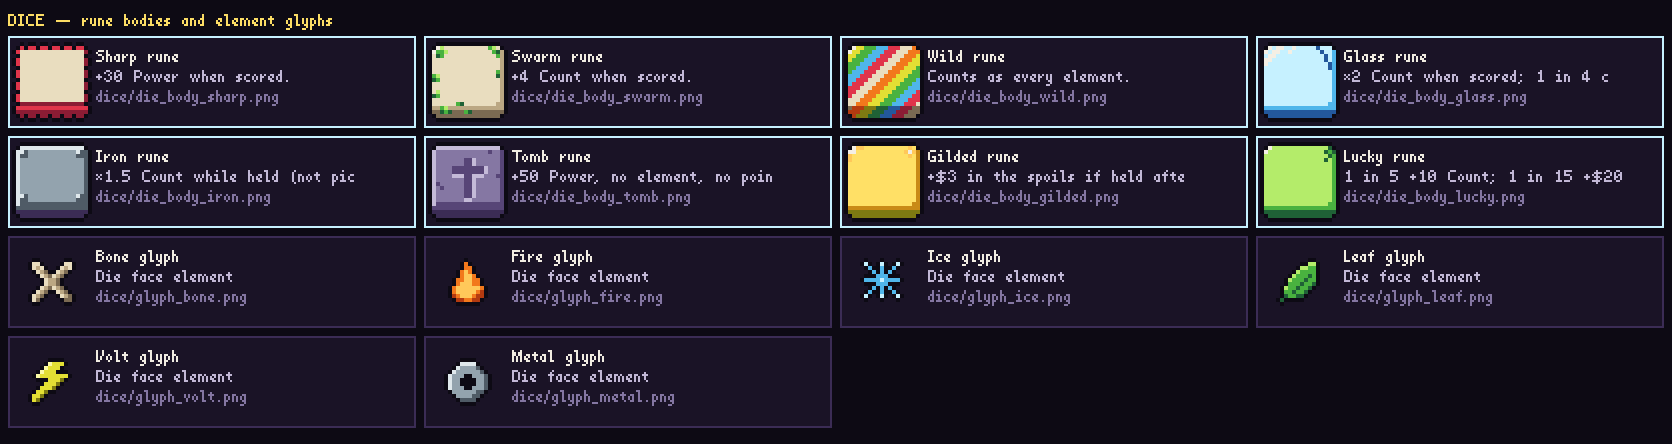
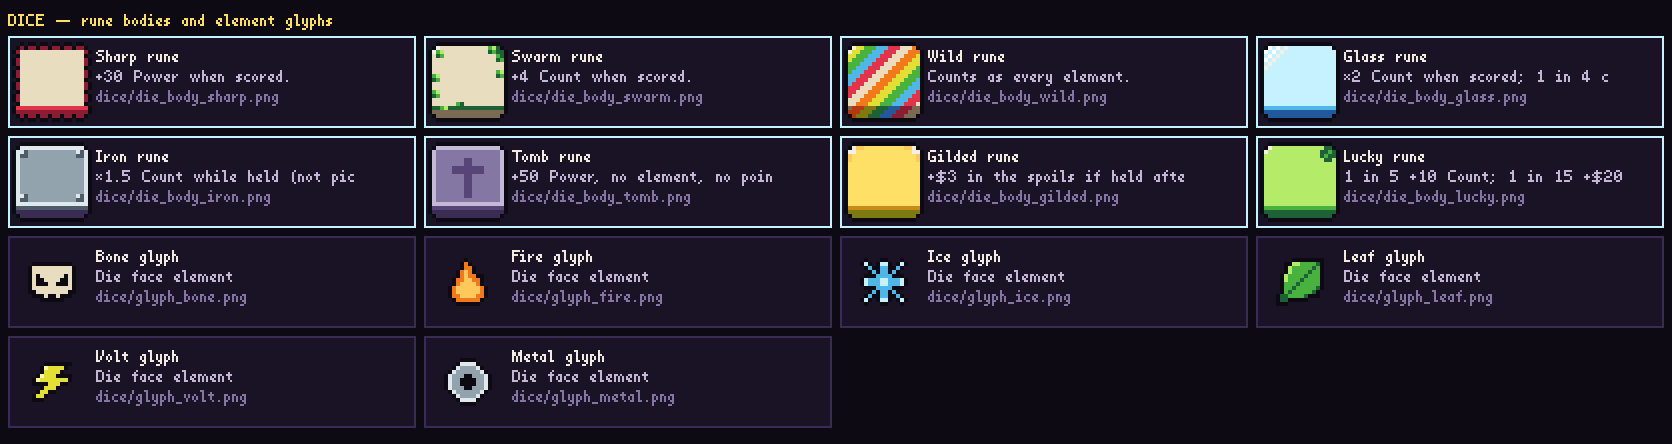
Update dice tiles, small glyphs and how-to pages to the new dice art

diff --git a/tools/art/dice_runes.py b/tools/art/dice_runes.py
@@ -14,6 +14,10 @@ left three columns, the right column above the badge and the side band left of i
 TOMB shows no glyph in game, so its carved cross sits in the middle. face_tile_<rune> applies
 the same materials to the 16x16 dice-inspector tile (glyph8 at (4, 4)).
 
+The designer repainted the bodies (2026-10-29): the face is flat with a top-left light and no right
+shade column; die_body_*.png on disk is the truth and BODY_* below are the older recipes. The
+TILE_* grids follow the repainted bodies (glass shine in N7: the body's #ffffff is off-palette).
+
 num_<n>: the face's points, a 7x9 N0 rounded badge with a 3x5 N7 digit (3 colours max).
 """
 
@@ -57,20 +61,20 @@ BODY_SHARP = [
 ]
 TILE_SHARP = [
     ".##.##.##.##.##.",
-    "#RR#RR#RR#RR#RR#",
-    "#Rccccccccccccr#",
+    "#rr#rr#rr#rr#rr#",
+    "#rccccccccccccr#",
     ".#cccccccccccc#.",
-    "#Rccccccccccccr#",
-    "#Rccccccccccccr#",
+    "#rccccccccccccr#",
+    "#rccccccccccccr#",
     ".#cccccccccccc#.",
-    "#Rccccccccccccr#",
-    "#Rccccccccccccr#",
+    "#rccccccccccccr#",
+    "#rccccccccccccr#",
     ".#cccccccccccc#.",
-    "#Rccccccccccccr#",
-    "#Rccccccccccccr#",
+    "#rccccccccccccr#",
+    "#rccccccccccccr#",
     ".#cccccccccccc#.",
-    "#Rrrrrrrrrrrrrr#",
-    "#RR#RR#RR#RR#RR#",
+    "#RRRRRRRRRRRRRR#",
+    "#rr#rr#rr#rr#rr#",
     ".##.##.##.##.##.",
 ]
 BODY_SWARM = [
@@ -97,20 +101,20 @@ BODY_SWARM = [
 ]
 TILE_SWARM = [
     ".##############.",
-    "#7ccccccccccLmB#",
-    "#cLmccccccccclB#",
-    "#clcccccccccccB#",
-    "#cccccccccccccB#",
-    "#cccccccccccccB#",
-    "#cccccccccccccB#",
-    "#cccccccccccccB#",
-    "#LmcccccccccccB#",
-    "#lccccccccccccB#",
-    "#cccccccccccccB#",
-    "#cccccccccccccB#",
-    "#cccmcccccccccB#",
-    "#ccLlccccccccBB#",
-    "#BBBBBBBBBLlBBB#",
+    "#7cccccccccLmlc#",
+    "#cLmccccccclLll#",
+    "#clLcccccccccLl#",
+    "#cccccccccccclL#",
+    "#cccccccccccccc#",
+    "#ccccccccccccLm#",
+    "#LmcccccccccclL#",
+    "#lLcccccccccccc#",
+    "#cccccccccccccc#",
+    "#Lmcccccccccccc#",
+    "#lLcccccccccccc#",
+    "#cccccccccccccc#",
+    "#cccccLlccccccc#",
+    "#llLmllllllllll#",
     ".##############.",
 ]
 BODY_WILD = [
@@ -177,19 +181,19 @@ BODY_GLASS = [
 ]
 TILE_GLASS = [
     ".##############.",
-    "#7j77jjjjjjijjI#",
-    "#j77jjjjjjjjijI#",
-    "#77jjjjjjjjjjiI#",
-    "#7jjjjjjjjjjjiI#",
-    "#jjjjjjjjjjjjji#",
-    "#jjjjjjjjjjjjjI#",
-    "#jjjjjjjjjjjjjI#",
-    "#jjjjjjjjjjjjjI#",
-    "#jjjjjjjjjjjjjI#",
-    "#jjjjjjjjjjjjjI#",
-    "#jjjjjjjjjjjjjI#",
-    "#jjjjjjjjjjjjjI#",
-    "#jjjjjjjjjjjjII#",
+    "#j7j7j7jjjjjjjj#",
+    "#7j7j7jjjjjjjjj#",
+    "#j7j7jjjjjjjjjj#",
+    "#7j7jjjjjjjjjjj#",
+    "#j7jjjjjjjjjjjj#",
+    "#7jjjjjjjjjjjjj#",
+    "#jjjjjjjjjjjjjj#",
+    "#jjjjjjjjjjjjjj#",
+    "#jjjjjjjjjjjjjj#",
+    "#jjjjjjjjjjjjjj#",
+    "#jjjjjjjjjjjjjj#",
+    "#jjjjjjjjjjjjjj#",
+    "#jjjjjjjjjjjjjj#",
     "#IIIIIIIIIIIIII#",
     ".##############.",
 ]
@@ -218,18 +222,18 @@ BODY_IRON = [
 TILE_IRON = [
     ".##############.",
     "#uuuuuuuuuuuuuu#",
-    "#uutTTTTTTTTutt#",
-    "#uttTTTTTTTTttt#",
-    "#uTTTTTTTTTTTTt#",
-    "#uTTTTTTTTTTTTt#",
-    "#uTTTTTTTTTTTTt#",
-    "#uTTTTTTTTTTTTt#",
-    "#uTTTTTTTTTTTTt#",
-    "#uTTTTTTTTTTTTt#",
-    "#uTTTTTTTTTTTTt#",
-    "#uutTTTTTTTTutt#",
-    "#uttTTTTTTTTttt#",
-    "#uttttttttttttt#",
+    "#uutTTTTTTTTutu#",
+    "#uttTTTTTTTTttu#",
+    "#uTTTTTTTTTTTTu#",
+    "#uTTTTTTTTTTTTu#",
+    "#uTTTTTTTTTTTTu#",
+    "#uTTTTTTTTTTTTu#",
+    "#uTTTTTTTTTTTTu#",
+    "#uTTTTTTTTTTTTu#",
+    "#uTTTTTTTTTTTTu#",
+    "#uutTTTTTTTTutu#",
+    "#uttTTTTTTTTttu#",
+    "#uuuuuuuuuuuuuu#",
     "#tttttttttttttt#",
     ".##############.",
 ]
@@ -258,18 +262,18 @@ BODY_TOMB = [
 TILE_TOMB = [
     ".##############.",
     "#66666666666666#",
-    "#65555555555454#",
-    "#65555544655554#",
-    "#65555544655554#",
-    "#65554444446554#",
-    "#65554444446554#",
-    "#65556644665554#",
-    "#65555544655554#",
-    "#65555544655554#",
-    "#65555544655554#",
-    "#64555544655554#",
-    "#65555566555554#",
-    "#64444444444444#",
+    "#65555555555556#",
+    "#65555544555556#",
+    "#65555544555556#",
+    "#65554444445556#",
+    "#65554444445556#",
+    "#65555544555556#",
+    "#65555544555556#",
+    "#65555544555556#",
+    "#65555544555556#",
+    "#65555544555556#",
+    "#65555555555556#",
+    "#66666666666666#",
     "#44444444444444#",
     ".##############.",
 ]
@@ -297,19 +301,19 @@ BODY_GILDED = [
 ]
 TILE_GILDED = [
     ".##############.",
-    "#7OgOOOOOOOOgOo#",
-    "#O7OOOOOOOOg7go#",
-    "#gOOOOOOOOOOgOo#",
-    "#OOOOOOOOOOOOOo#",
-    "#OOOOOOOOOOOOOo#",
-    "#OOOOOOOOOOOOOo#",
-    "#OOOOOOOOOOOOOo#",
-    "#OOOOOOOOOOOOOo#",
-    "#OOOOOOOOOOOOOo#",
-    "#OOOOOOOOOOOOOo#",
-    "#OOOOOOOOOOOOOo#",
-    "#OOOOOOOOOOOOOo#",
-    "#OOOOOOOOOOOOoo#",
+    "#7ggOOOOOOOOgg7#",
+    "#77OOOOOOOOOO77#",
+    "#gOOOOOOOOOOOOg#",
+    "#gOOOOOOOOOOOOg#",
+    "#OOOOOOOOOOOOOO#",
+    "#OOOOOOOOOOOOOO#",
+    "#OOOOOOOOOOOOOO#",
+    "#OOOOOOOOOOOOOO#",
+    "#OOOOOOOOOOOOOO#",
+    "#OOOOOOOOOOOOOO#",
+    "#OOOOOOOOOOOOOO#",
+    "#OOOOOOOOOOOOOO#",
+    "#OOOOOOOOOOOOOO#",
     "#oooooooooooooo#",
     ".##############.",
 ]
@@ -337,19 +341,19 @@ BODY_LUCKY = [
 ]
 TILE_LUCKY = [
     ".##############.",
-    "#7mmmmmmmmmmmlL#",
-    "#mmmmmmmmmmmlLl#",
-    "#mmmmmmmmmmmmlL#",
-    "#mmmmmmmmmmmlmL#",
-    "#mmmmmmmmmmmmmL#",
-    "#mmmmmmmmmmmmmL#",
-    "#mmmmmmmmmmmmmL#",
-    "#mmmmmmmmmmmmmL#",
-    "#mmmmmmmmmmmmmL#",
-    "#mmmmmmmmmmmmmL#",
-    "#mmmmmmmmmmmmmL#",
-    "#mmmmmmmmmmmmmL#",
-    "#mmmmmmmmmmmmLL#",
+    "#7mmmmmmmmmllmm#",
+    "#mmmmmmmmmllLlm#",
+    "#mmmmmmmmmlLllm#",
+    "#mmmmmmmmmmllmm#",
+    "#mmmmmmmmmmmmmm#",
+    "#mmmmmmmmmmmmmm#",
+    "#mmmmmmmmmmmmmm#",
+    "#mmmmmmmmmmmmmm#",
+    "#mmmmmmmmmmmmmm#",
+    "#mmmmmmmmmmmmmm#",
+    "#mmmmmmmmmmmmmm#",
+    "#mmmmmmmmmmmmmm#",
+    "#mmmmmmmmmmmmmm#",
     "#LLLLLLLLLLLLLL#",
     ".##############.",
 ]

diff --git a/tools/art/enemies_dice.py b/tools/art/enemies_dice.py
@@ -669,18 +669,18 @@ GLYPHS = {
 }
 
 GLYPHS8 = {
-    "bone": ["c....c", ".cBBb.", "..Bb..", "..Bb..", ".cBBb.", "c....b"],
-    "fire": ["..F...", "..FF..", ".FgF..", ".FggF.", "FgggFf", ".fFff."],
+    "bone": ["cccccc", "c#cc#c", "c#cc#c", "cccccc", ".cccc.", ".c##c."],  # skull, as glyph_bone
+    "fire": ["..F...", "..FF..", ".FgF..", ".FggF.", "FggggF", ".FFFF."],
     "ice": ["j.j.j.", ".III..", "jIjIj.", ".III..", "j.j.j.", "......"],
     "leaf": ["....mL", "..mLLL", ".mLLlL", ".LLlL.", ".Ll...", "l....."],
-    "volt": ["..wVV.", ".wVV..", "wVVVV.", "..VVv.", ".VVv..", ".Vv..."],
-    "metal": [".uTT..", "uT##t.", "T####t", "T####t", ".t##t.", "..tt.."],
+    "volt": ["..wVV.", ".wVV..", "wVVVV.", "..VVV.", ".VV...", ".V...."],
+    "metal": [".uuuu.", "uTTTTu", "uT##Tu", "uT##Tu", "uTTTTu", ".uuuu."],
     "wild": [".7777.", "77OO77", "7OOOO7", "7OOOO7", "77OO77", ".7777."],
 }
 
 PIP_RAMP = {"bone": "B", "fire": "F", "ice": "I", "leaf": "L", "volt": "V", "metal": "T"}
 PIPS = {  # 4x4 marks inside a 6x6 dot
-    "bone": ["c.cc", ".cc.", ".cc.", "cc.c"],
+    "bone": ["cccc", "c##c", "cccc", ".cc."],
     "fire": [".g..", ".gg.", "gggg", ".gg."],
     "ice": ["j.j.", ".jj.", ".jj.", "j..j"],
     "leaf": ["..mm", ".mm.", "mmm.", "m..."],
@@ -690,19 +690,19 @@ PIPS = {  # 4x4 marks inside a 6x6 dot
 
 FACE_TILE = [
     ".##############.",
-    "#7ccccccccccccB#",
-    "#cccccccccccccB#",
-    "#cccccccccccccB#",
-    "#cccccccccccccB#",
-    "#cccccccccccccB#",
-    "#cccccccccccccB#",
-    "#cccccccccccccB#",
-    "#cccccccccccccB#",
-    "#cccccccccccccB#",
-    "#cccccccccccccB#",
-    "#cccccccccccccB#",
-    "#cccccccccccccB#",
-    "#ccccccccccccBB#",
+    "#7ccccccccccccc#",
+    "#cccccccccccccc#",
+    "#cccccccccccccc#",
+    "#cccccccccccccc#",
+    "#cccccccccccccc#",
+    "#cccccccccccccc#",
+    "#cccccccccccccc#",
+    "#cccccccccccccc#",
+    "#cccccccccccccc#",
+    "#cccccccccccccc#",
+    "#cccccccccccccc#",
+    "#cccccccccccccc#",
+    "#cccccccccccccc#",
     "#BBBBBBBBBBBBBB#",
     ".##############.",
 ]

diff --git a/tools/build_manifest.py b/tools/build_manifest.py
@@ -3,7 +3,7 @@
     python tools/build_manifest.py
 
 Entry fields: id, path (relative to project root), w, h, frame_w, frames, category,
-flags (subset of: mask, floating, tint), tag (2-3 letter placeholder label),
+flags (subset of: mask, floating, tint, white), tag (2-3 letter placeholder label),
 ramp / accent (colour hints: element name or Hallow32/mask key), margin (9-slice margin, UI only).
 """
 
@@ -128,7 +128,9 @@ def build() -> tuple[list[dict], dict[str, str]]:
     for el in ids.ELEMENTS:
         add(f"{D}/pip_{el.lower()}.png", 6, 6, "pip", ramp=el, tag_text=el[:2])
     for rune, col in ids.RUNES.items():
-        add(f"{D}/die_body_{rune}.png", 20, 20, "dice", ramp=col, tag_text=rune[:2].upper())
+        # GLASS shine is pure white by the designer's choice (D-A16), not a runtime tint.
+        add(f"{D}/die_body_{rune}.png", 20, 20, "dice", ramp=col, tag_text=rune[:2].upper(),
+            flags=["white"] if rune == "glass" else None)
         add(f"{D}/face_tile_{rune}.png", 16, 16, "dice_overlay", ramp=col, tag_text=rune[:2].upper())
     for n in range(1, 10):
         add(f"{D}/num_{n}.png", 7, 9, "num", ramp="N7", tag_text=str(n))

diff --git a/tools/validate_art.py b/tools/validate_art.py
@@ -7,7 +7,7 @@ Checks:
   - exact pixel size; width / frame_w is an integer equal to `frames`
   - mode RGBA, alpha in {0, 255}
   - every opaque pixel in Hallow32 (files flagged `mask`: mask key colours + #0d0a14 only;
-    files flagged `tint` may also use pure white)
+    files flagged `tint` or `white` may also use pure white)
   - colour-count limits: units/legion 7, legends 12, minis 4, enemies/shopkeeper 12, icons 6, digits 3,
     backgrounds 16
   - 16x16 icons: 1 px transparent border
@@ -66,7 +66,7 @@ def check_entry(e: dict) -> list[str]:
     px = img.load()
     flags = set(e.get("flags", []))
     allowed = MASK_RGB if "mask" in flags else HALLOW32_RGB
-    if "tint" in flags:
+    if "tint" in flags or "white" in flags:
         allowed = allowed | {WHITE}
     bad_alpha = 0
     bad_colours: set[tuple[int, int, int]] = set()

diff --git a/ART_SPEC.md b/ART_SPEC.md
@@ -210,28 +210,28 @@ Used when the army exceeds 60 visible sprites (GAME_SPEC §11.2).
 
 | Asset | Size | Spec |
 |---|---|---|
-| `dice/die_body.png` | 20×20 | Rounded square (2 px stepped corners), `N0` outline, face area top 17 px in `B2` with `B1` shading, bottom 3 px "side" in `B0` (2.5D) |
+| `dice/die_body.png` | 20×20 | Rounded square (2 px stepped corners), `N0` outline, flat face area top 16 px in `B2` with an `N7` top-left light (no right shade column, designer repaint 2026-10-29), a `B1` band row, bottom 3 px "side" in `B0` (2.5D) |
 | `dice/die_roll.png` | 80×20 | 4-frame tumble (blank faces), played 50 ms/frame before landing |
 | `dice/glyph_<element>.png` ×6 + `glyph_wild.png` | 12×12 | Face glyph, drawn centred on face area at offset `(4, 3)`. Element ramp colours + `N0` outline |
 | `dice/glyph8_<element>.png` ×6 + `glyph8_wild.png` | 8×8 | Small glyph for icons, essence pips, recipe book |
 | `dice/pip_<element>.png` ×6 | 6×6 | Essence pip (simplified glyph in a dot) |
-| `dice/die_body_<rune>.png` ×8 | 20×20 | The die's **material** while a rune face is up (§4.6b); same silhouette and side as `die_body` |
+| `dice/die_body_<rune>.png` ×8 | 20×20 | The die's **material** while a rune face is up (§4.6b); same silhouette and side as `die_body`. GLASS shine streaks may be pure white `#ffffff` (D-A16) |
 | `dice/num_1..9.png` | 7×9 | Points badge: `N0` rounded badge, `N7` digit; drawn at `(13, 11)` on the die |
 | `dice/die_select.png` | 22×22 | 1 px `G1` outline ring (drawn at die −1,−1). A picked die is also raised 3 px |
 | `dice/die_bound.png` | 22×22 | (unused in v2) 1 px white ring, tintable |
 | `dice/die_shackle.png` | 20×20 | Chain overlay `M0/M1`; die dimmed via `N0` 50% checker pattern (no alpha) |
-| `dice/face_tile.png`, `face_tile_<rune>.png` ×8 | 16×16 | Face square for the Dice Inspector / market dice: glyph8 at (2, 2), points digit bottom-right |
+| `dice/face_tile.png`, `face_tile_<rune>.png` ×8 | 16×16 | Face square for the Dice Inspector / market dice / Codex runes: glyph8 at (4, 4), points digit bottom-right. Follows the die body: flat face, `N7` top-left light, the body's band colour on the bottom row, the rune material in the same corners / edges |
 
 Glyph shapes (must differ in silhouette):
 
 | Element | Glyph |
 |---|---|
-| BONE | Crossed bones (X) |
+| BONE | Skull with slanted eyes and two teeth (8 px: upright eyes) |
 | FIRE | Teardrop flame |
 | ICE | 6-arm snowflake |
 | LEAF | Single leaf with vein, tilted |
 | VOLT | Zig-zag bolt |
-| METAL | Hex nut (hexagon with hole) |
+| METAL | Round nut: `M2` rim, `M1` ring, `N0` hole (8 px: square nut) |
 | WILD | Open eye with star pupil, `G1` + `N7` |
 
 ### 4.6b Runes (GAME_SPEC §4.6) — the die body changes material

diff --git a/DECISIONS.md b/DECISIONS.md
@@ -61,3 +61,4 @@ decision: the why, and what it rules out. Numbers live in `data/`, not here.
 | D-G15 | 2026-10-29 | The starting five dice form a Latin square: every non-BONE element shows 1–5 once across the five dice, and each die still carries 1–5 once. Market dice stay freely shuffled | Designer rule "mỗi mặt đều có từ 1 to 5 points variants": independently shuffled dice could repeat FIRE-3 and miss FIRE-5, like a deck missing ranks |
 | D-G16 | 2026-10-29 | Scoring order is trinket-major: all scored dice (points, runes), held IRON runes, then each trinket left→right takes a turn — its per-die blocks over the dice, then its group block. Trinket row order now decides + before × between trinkets; the worked example total is unchanged (1,441) | Designer playtest asked for Balatro's beat: cards score first, then each joker in turn, so the playback can show which trinket is firing |
 | D-P01 | 2026-10-29 | Summon playback: summoned dice stay raised and lit (unscored dimmed), the scoring dice shake left→right on the combo beat, each step punches its die and pops its number, the trinket in turn wobbles. Speed-up per stage (combo shakes, dice, trinkets): each step 5 % shorter than the last, floor 50 % — at most twice as fast; no summon time cap (a cap would push past that floor). Gear has no scoring effect, so only trinkets take turns | Designer rule: "dice sau / relic sau ngắn hơn trước 5%, tối đa không ngắn hơn 50%" — readable at the start, brisk on long chains; ×2 / ×4 speed and skip cover very long summons |
+| D-A16 | 2026-10-30 | `die_body_glass.png` may use pure white `#ffffff` for its shine streaks (manifest flag `white`); every other file stays in Hallow32 (`tint` files excepted). The 16×16 `face_tile_glass` keeps `N7` | Designer choice: the glass shine must read brighter than the `N7` bone light |

diff --git a/.claude/skills/godot-debugging-testing/references/engine-traps.md b/.claude/skills/godot-debugging-testing/references/engine-traps.md
@@ -38,6 +38,7 @@ Check here before debugging your own code. Add a row whenever a trap costs real 
 | Trap | Symptom | Fix |
 | --- | --- | --- |
 | **`default_texture_filter` enum order differs from `CanvasItem.TextureFilter`** | "Linear mipmap" set but sprites look wrong | Project setting order: `0 Nearest, 1 Linear, 2 Linear Mipmap, 3 Nearest Mipmap`. `CanvasItem` constants differ. Read the setting's `hint_string` to confirm |
+| **PNG rewritten on disk, game run without the editor** | A capture or test still shows the old sprite after a generator (or the designer) changed the file | Headless runs and captures use `.godot/imported` as it is; run `godot --headless --path . --import` after writing art and before capturing. On Windows from PowerShell, a `%VAR%` set by a `call`ed script inside `cmd /c "..."` expands too early (empty): use `cmd /v:on /c` with `!VAR!` |
 | **Newly imported textures get engine defaults** | One new asset looks different from the rest | Every new asset must go through the project's import pass/preset — see `godot-pixel-art-rendering` |
 | **Non-integer window scale** | Whole frame soft, text included | Integer scale factor of the design resolution, or fullscreen at a multiple |
 | **Borderless window exactly screen-sized is treated as exclusive fullscreen** | `window_get_mode()` reports fullscreen; toggling to windowed does nothing | Use real `WINDOW_MODE_FULLSCREEN`; track intended mode yourself |
